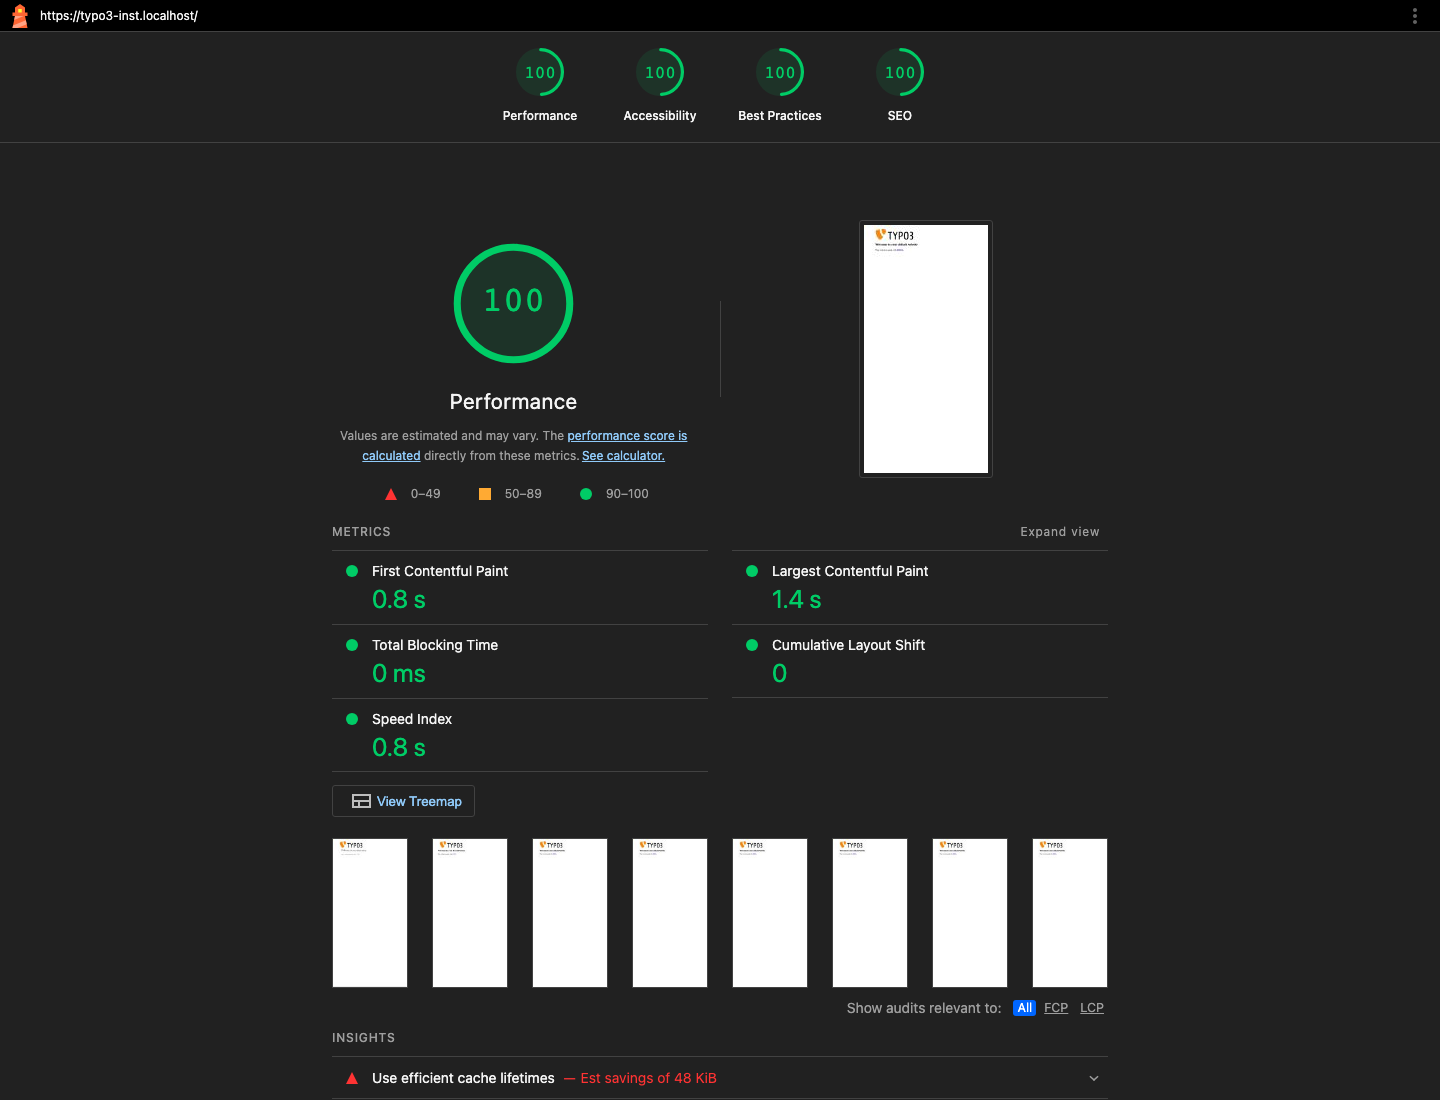
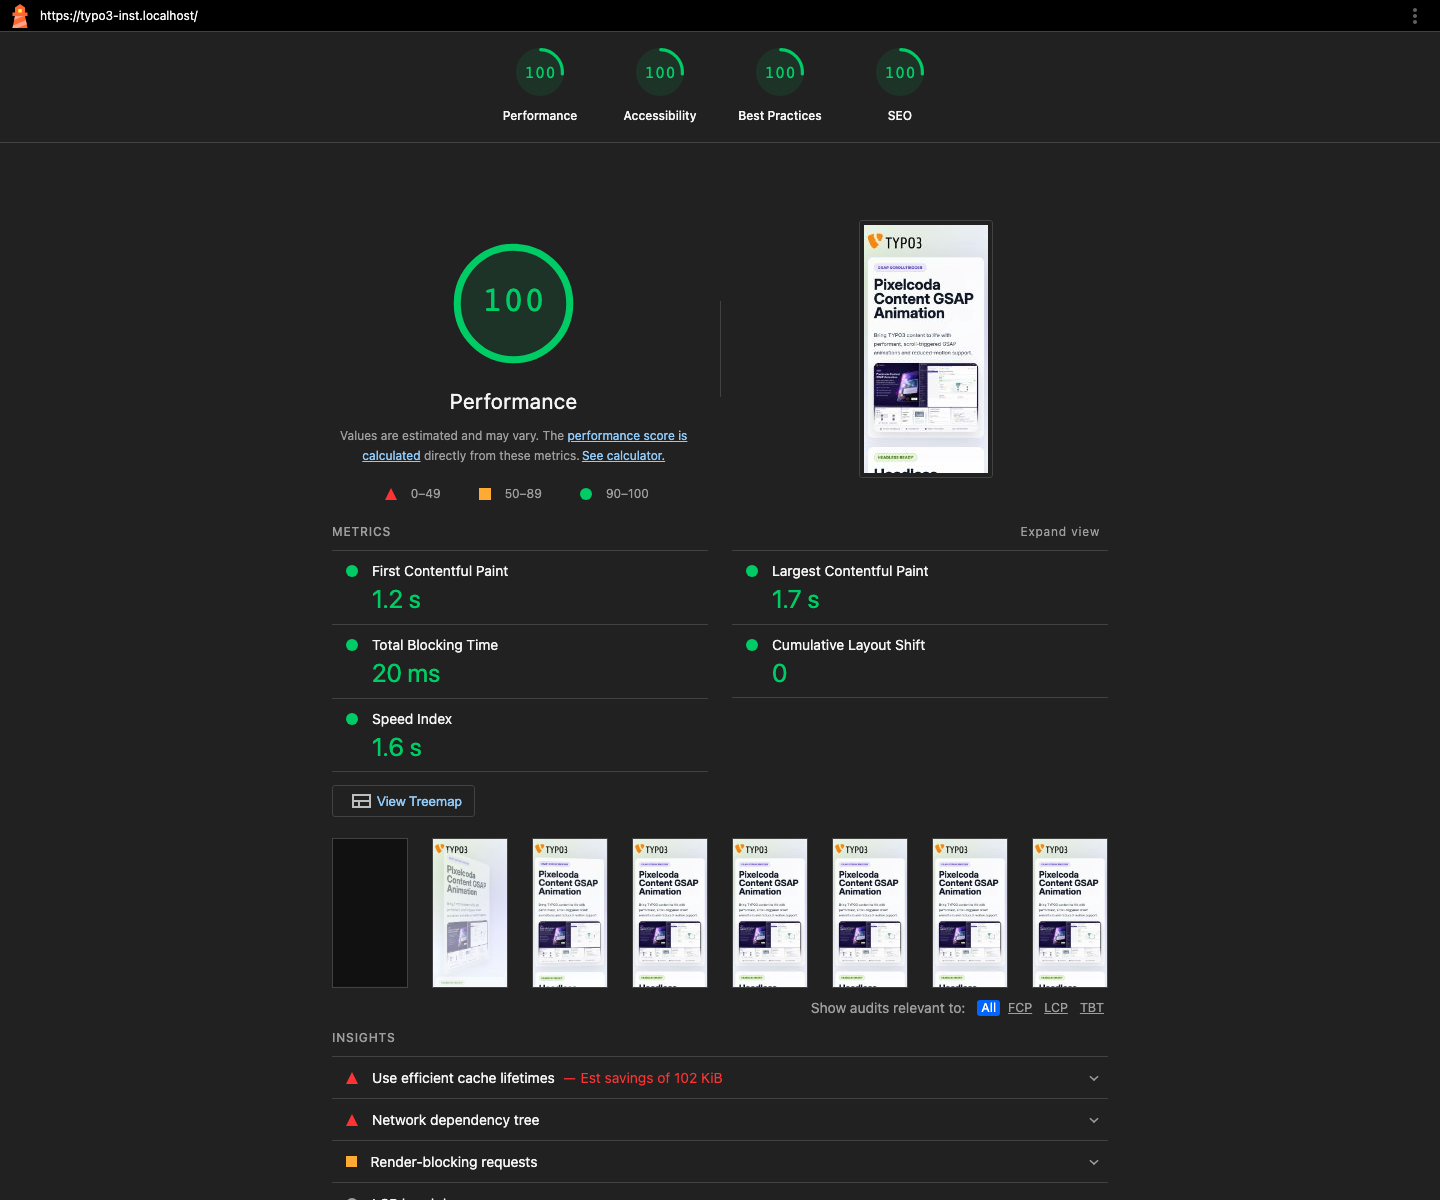
Release v3.5.13 frontend demo screenshots

diff --git a/ext_emconf.php b/ext_emconf.php
@@ -15,7 +15,7 @@ $EM_CONF[$_EXTKEY] = [
     'uploadfolder' => 0,
     'createDirs' => '',
     'clearCacheOnLoad' => 0,
-    'version' => '3.5.12',
+    'version' => '3.5.13',
     'constraints' => [
         'depends' => [
             'typo3' => '12.4.0-14.4.99',

diff --git a/README.md b/README.md
@@ -58,6 +58,7 @@ The backend preview shows the selected animation on a content-card mockup and di
 Documentation media:
 
 - [Original TYPO3 backend settings flow GIF](Documentation/Images/Settings/backend-settings-animation-flow.gif)
+- [Styled frontend demo](Documentation/Images/Reports/frontend-styled.png)
 - [Lighthouse 100 report](Documentation/Images/Reports/lighthouse-100.png)
 - [Static premium preview](Documentation/Images/Settings/premium-preview.png)
 - [Animation tab](Documentation/Images/Settings/animation-tab.png)
@@ -65,6 +66,8 @@ Documentation media:
 - [Footer label](Documentation/Images/Settings/footer-label.png)
 
 ## Lighthouse
+
+![Styled frontend demo](Documentation/Images/Reports/frontend-styled.png)
 
 ![Lighthouse 100 report](Documentation/Images/Reports/lighthouse-100.png)
 
@@ -74,9 +77,9 @@ Verified on the local TYPO3 test page with an animated content element and bundl
 - Accessibility: 100
 - Best Practices: 100
 - SEO: 100
-- FCP: 0.8 s
-- LCP: 1.4 s
-- TBT: 0 ms
+- FCP: 1.2 s
+- LCP: 1.7 s
+- TBT: 20 ms
 - CLS: 0
 
 ## Accessibility

diff --git a/Documentation/Installation/Index.rst b/Documentation/Installation/Index.rst
@@ -79,6 +79,9 @@ Lighthouse verification
 
 The extension has been verified on a local TYPO3 test page with an animated content element and bundled GSAP assets:
 
+.. image:: ../Images/Reports/frontend-styled.png
+   :alt: Styled frontend demo for Pixelcoda Content GSAP Animation
+
 .. image:: ../Images/Reports/lighthouse-100.png
    :alt: Lighthouse report with 100 scores for Performance, Accessibility, Best Practices and SEO
 
@@ -88,7 +91,7 @@ Measured values:
 * Accessibility: 100
 * Best Practices: 100
 * SEO: 100
-* First Contentful Paint: 0.8 s
-* Largest Contentful Paint: 1.4 s
-* Total Blocking Time: 0 ms
+* First Contentful Paint: 1.2 s
+* Largest Contentful Paint: 1.7 s
+* Total Blocking Time: 20 ms
 * Cumulative Layout Shift: 0

diff --git a/ChangeLog.md b/ChangeLog.md
@@ -4,6 +4,10 @@ All notable changes to this project will be documented in this file.
 The format is based on [Keep a Changelog](https://keepachangelog.com/en/1.0.0/),
 and this project adheres to [Semantic Versioning](https://semver.org/spec/v2.0.0.html).
 
+## 3.5.13 - 2026-06-03
+### Changed
+- [IMPROVEMENT] Added styled frontend demo and updated Lighthouse 100 documentation screenshots.
+
 ## 3.5.12 - 2026-06-03
 ### Changed
 - [IMPROVEMENT] Optimized frontend GSAP initialization to bail out on pages without animated elements and clean up animation contexts on page unload.

diff --git a/Documentation/ChangeLog/Index.rst b/Documentation/ChangeLog/Index.rst
@@ -12,6 +12,14 @@ All notable changes to this project will be documented in this file.
 The format is based on `Keep a Changelog <https://keepachangelog.com/en/1.0.0/>`_,
 and this project adheres to `Semantic Versioning <https://semver.org/spec/v2.0.0.html>`_.
 
+3.5.13 - 2026-06-03
+===================
+
+Changed
+-------
+
+* Added styled frontend demo and updated Lighthouse 100 documentation screenshots.
+
 3.5.12 - 2026-06-03
 ===================
 
